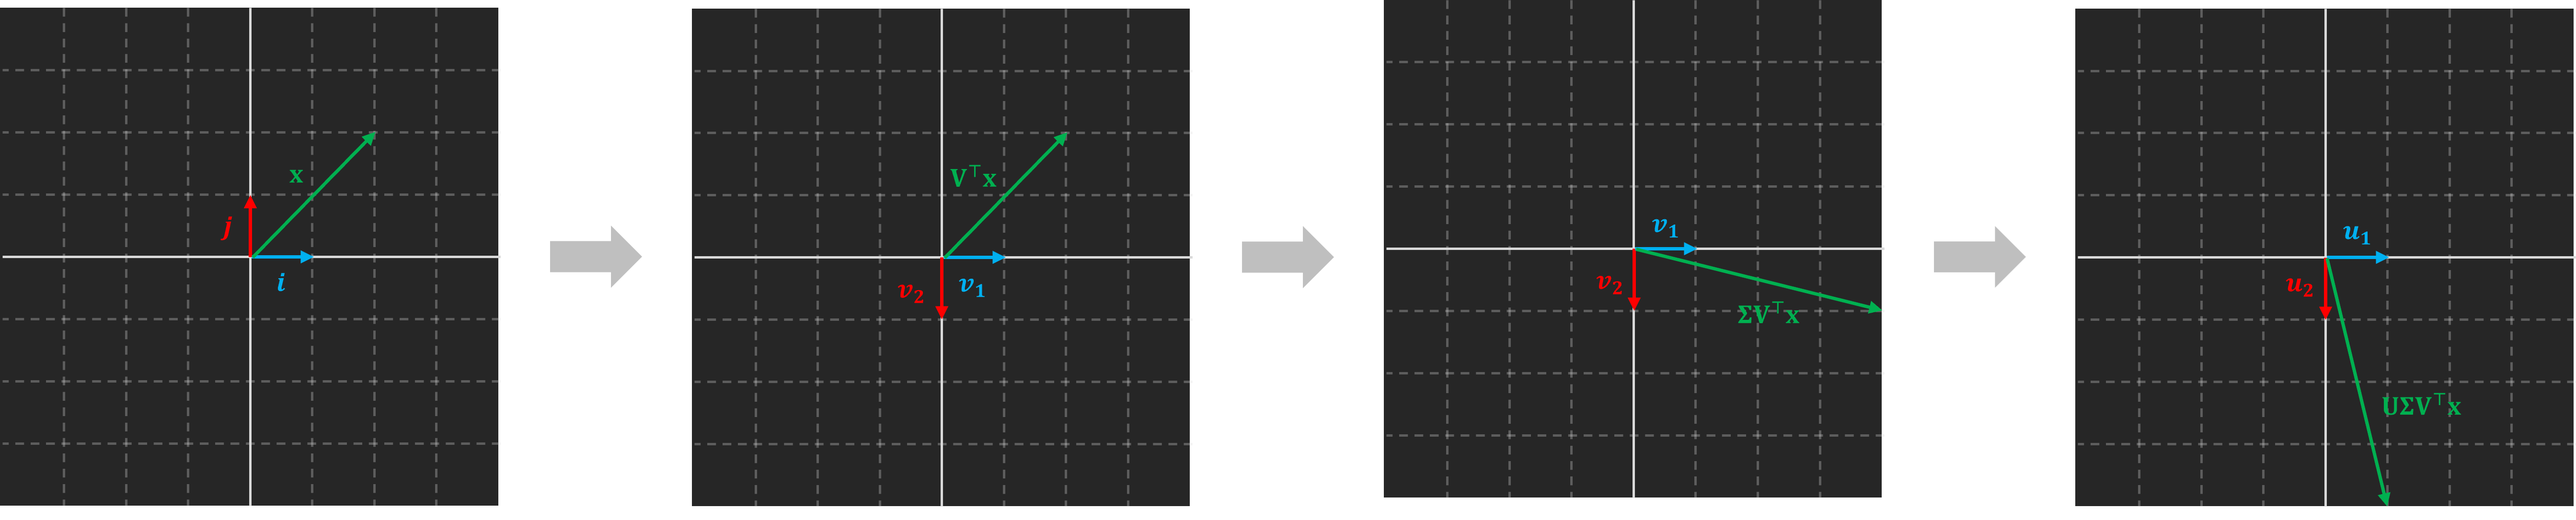
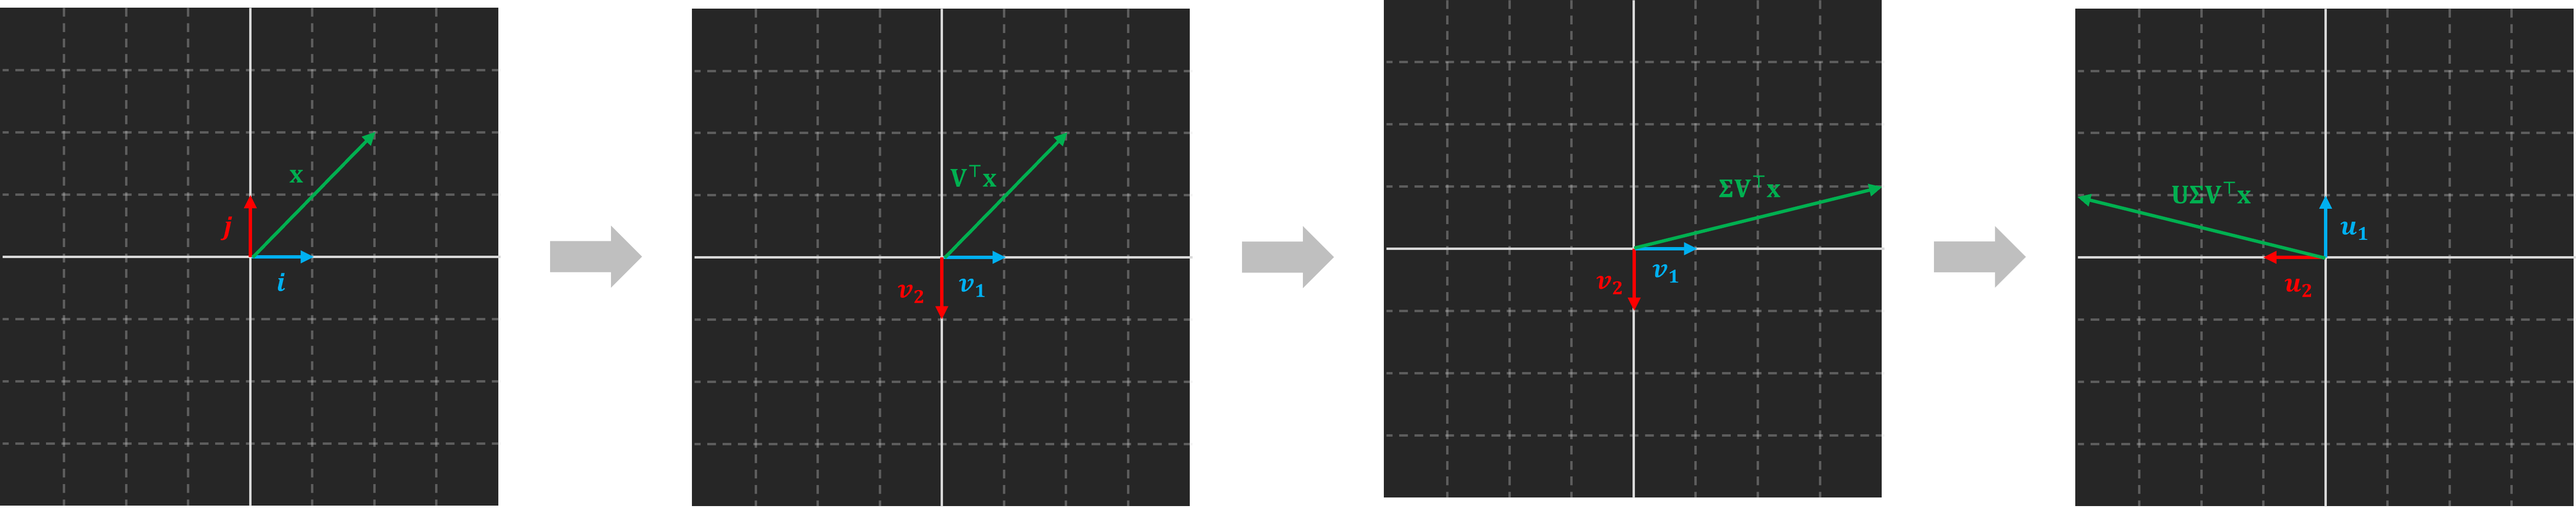
all

diff --git a/_posts/Mathematics/Linear_Algebra/2025-08-02-EVD.md b/_posts/Mathematics/Linear_Algebra/2025-08-02-EVD.md
@@ -23,7 +23,7 @@ $$
 
 ### 닮음 (Similarity)
 
-정사각 행렬 $A, Y$에 대해 어떤 가역 행렬 $B$가 존재해서 다음 식을 만족한다면, $A$와 $Y$는 닮음 관계에 있다고 한다.
+정사각 행렬 $A, Y$에 대해 어떤 가역 행렬 $B$가 존재해서 다음 식을 만족한다면, $A$와 $Y$는 **닮음** 관계에 있다고 한다.
 
 $$
 B^{-1}AB=Y
@@ -41,7 +41,7 @@ $$
    \text{det}(A-\lambda I)=\text{det}(Y-\lambda I)
    $$
 
-닮음 관계는 행렬의 본질적인 성질은 유지하면서, 행렬을 다른 기저에서 표현하는 것을 의미한다.
+닮음 관계는 <span style="background-color:#fff5b1">행렬의 본질적인 성질은 유지하면서, 행렬을 다른 기저에서 표현하는 것</span>을 의미한다.
 
 이 관점에서 보면, 대각화는 닮음 변환의 특수한 경우이다.
 <br>
@@ -87,19 +87,13 @@ $V$가 가역 행렬이라는 뜻은 $A$의 고유벡터들이 모두 선형 독
 <summary><font color='red'>Example 1</font></summary>
 <div markdown="1">
 
-$$
-A=\begin{bmatrix}2&1\\0&2\end{bmatrix}
-$$
-
----
-
-$\lambda_1=\lambda_2=2$이므로, 2개의 중복 고유값을 가진다. → Algebraic Multiplicity = 2
-
-해당 고유값에 대응하는 고유벡터는 1개다. → Gemoetric Multiplicity = 1
-
-Algebraic Multiplicity $\not=$ Gemoetric Multiplicity이므로, $A$는 EVD가 불가능하다.
-
----
+> $$A=\begin{bmatrix}2&1\\0&2\end{bmatrix}$$
+>
+> $\lambda_1=\lambda_2=2$이므로, 2개의 중복 고유값을 가진다. → Algebraic Multiplicity = 2
+>
+> 해당 고유값에 대응하는 고유벡터는 1개다. → Gemoetric Multiplicity = 1
+>
+> Algebraic Multiplicity $\not=$ Gemoetric Multiplicity이므로, $A$는 EVD가 불가능하다.
 
 </div>
 </details>
@@ -118,48 +112,29 @@ $$
 <summary><font color='#0000FF'>증명</font></summary>
 <div markdown="1">
 
-$$\vphantom{\Big(}
-A=V\Lambda V^{-1}~~,~~A^\top=\left(V\Lambda V^{-1}\right)^\top
-$$
-
-대칭 행렬이기 때문에 $A=A^\top$이다.
-
-$$\vphantom{\Big(}
-V\Lambda V^{-1}=\left(V\Lambda V^{-1}\right)^\top
-$$
-
-위 식을 아래와 같이 전개할 수 있다.
-
-$$\vphantom{\Big(}
-V\Lambda V^{-1}=\left(V\Lambda V^{-1}\right)^\top
-=V^{-\top}\Lambda^\top V^\top=\left(V^\top\right)^{-1}\Lambda V^\top
-$$
-
-위 식의 좌변과 우변이 같으려면 아래의 식이 성립해야 한다.
-
-$$\vphantom{\Big(}
-V^{-1}=V^\top
-$$
-
-따라서 $V$는 직교 행렬이다.
-
----
-
-$$\vphantom{\Big(}
-\lambda_1\mathbf{v}_1\cdot\mathbf{v}_2=(\lambda_1\mathbf{v}_1)^\top\mathbf{v}_2=(A\mathbf{v}_1)^\top\mathbf{v}_2=(\mathbf{v}_1^\top A^\top)\mathbf{v}_2
-$$
-
-$$\vphantom{\Big(}
-=\mathbf{v}_1^\top(A\mathbf{v}_2)=\mathbf{v}_1^\top(\lambda_2\mathbf{v}_2)=\lambda_2\mathbf{v}_1^\top\mathbf{v}_2=\lambda_2\mathbf{v}_1\cdot\mathbf{v}_2
-$$
-
-$$\vphantom{\Big(}
-(\lambda_1-\lambda_2)\mathbf{v}_1\cdot\mathbf{v}_2=0
-$$
-
-$\lambda_1\neq\lambda_2$이므로, $\mathbf{v}_1\cdot\mathbf{v}_2=0$이다.
-
----
+> $$\vphantom{\Big(}A=V\Lambda V^{-1}~~,~~A^\top=\left(V\Lambda V^{-1}\right)^\top$$
+>
+> 대칭 행렬이기 때문에 $A=A^\top$이다.
+>
+> $$\vphantom{\Big(}V\Lambda V^{-1}=\left(V\Lambda V^{-1}\right)^\top$$
+>
+> 위 식을 아래와 같이 전개할 수 있다.
+>
+> $$\vphantom{\Big(}V\Lambda V^{-1}=\left(V\Lambda V^{-1}\right)^\top=V^{-\top}\Lambda^\top V^\top=\left(V^\top\right)^{-1}\Lambda V^\top$$
+>
+> 위 식의 좌변과 우변이 같으려면 아래의 식이 성립해야 한다.
+>
+> $$\vphantom{\Big(}V^{-1}=V^\top$$
+>
+> 따라서 $V$는 직교 행렬이다.
+>
+> $$\vphantom{\Big(}\lambda_1\mathbf{v}_1\cdot\mathbf{v}_2=(\lambda_1\mathbf{v}_1)^\top\mathbf{v}_2=(A\mathbf{v}_1)^\top\mathbf{v}_2=(\mathbf{v}_1^\top A^\top)\mathbf{v}_2$$
+>
+> $$\vphantom{\Big(}=\mathbf{v}_1^\top(A\mathbf{v}_2)=\mathbf{v}_1^\top(\lambda_2\mathbf{v}_2)=\lambda_2\mathbf{v}_1^\top\mathbf{v}_2=\lambda_2\mathbf{v}_1\cdot\mathbf{v}_2$$
+>
+> $$\vphantom{\Big(}(\lambda_1-\lambda_2)\mathbf{v}_1\cdot\mathbf{v}_2=0$$
+>
+> $\lambda_1\neq\lambda_2$이므로, $\mathbf{v}_1\cdot\mathbf{v}_2=0$이다.
 
 </div>
 </details>
@@ -191,15 +166,11 @@ EVD는 아래의 연산을 매우 간단하게 만들어 준다. ([대각 행렬
    <summary><font color='#0000FF'>증명</font></summary>
    <div markdown="1">
 
-   $$
-   \text{det}(A)=\text{det}(V\Lambda V^{-1})=\text{det}(V)\text{det}(\Lambda)\text{det}(V^{-1})=\text{det}(\Lambda)\cdot\frac{\text{det}(V)}{\text{det}(V)}=\text{det}(\Lambda)
-   $$
-
-   $\Lambda$는 대각 행렬이며, 대각 행렬의 행렬식은 대각 성분의 곱과 같다.
-
-   $$
-   \text{det}(\Lambda)=\prod_{i=1}^n\lambda_i
-   $$
+   > $$\text{det}(A)=\text{det}(V\Lambda V^{-1})=\text{det}(V)\text{det}(\Lambda)\text{det}(V^{-1})=\text{det}(\Lambda)\cdot\frac{\text{det}(V)}{\text{det}(V)}=\text{det}(\Lambda)$$
+   > 
+   > $\Lambda$는 대각 행렬이며, 대각 행렬의 행렬식은 대각 성분의 곱과 같다.
+   > 
+   > $$\text{det}(\Lambda)=\prod_{i=1}^n\lambda_i$$
 
    </div>
    </details>
@@ -215,10 +186,8 @@ EVD는 아래의 연산을 매우 간단하게 만들어 준다. ([대각 행렬
    <summary><font color='#0000FF'>증명</font></summary>
    <div markdown="1">
 
-   $$
-   \text{tr}(A)=\text{tr}(V\Lambda V^{-1})=\text{tr}(V^{-1}V\Lambda)=\text{tr}(\Lambda)=\sum_{i=1}^n\lambda_i
-   $$
-
+   > $$\text{tr}(A)=\text{tr}(V\Lambda V^{-1})=\text{tr}(V^{-1}V\Lambda)=\text{tr}(\Lambda)=\sum_{i=1}^n\lambda_i$$
+   
    </div>
    </details>
    <br>

diff --git a/_posts/Mathematics/Linear_Algebra/2025-08-03-SVD.md b/_posts/Mathematics/Linear_Algebra/2025-08-03-SVD.md
@@ -50,8 +50,6 @@ $$
 
 이는 오른쪽부터 차례대로 다음의 3단계를 거치는 것과 같다.
 
-![fig1](Mathematics/Linear_Algebra/SVD-1.png){: style="display:block; margin:0 auto; width:100%;"}
-
 1. $V^\top\mathbf{x}$: 기존 좌표계의 벡터 $\mathbf{x}$를 Right Singular Vector들을 기저로 하는 좌표계에서의 좌표로 바꾼다.
 
 2. $\Sigma(V^\top\mathbf{x})$: Right Singular Vector 좌표계에서 각 성분을 표현된 각 성분을 해당 특이값 $\sigma_i$만큼 스케일링한다.
@@ -62,18 +60,18 @@ $$
 
 예를 들어, 유클리드 좌표계에 존재하는 벡터 $\mathbf{x}=2\mathbf{i}+2\mathbf{j}$에 선형 변환 $A$를 적용했다고 해보자.
 <br>
-또한 행렬 $A$는 다음과 같이 EVD가 된다고 가정해 보자.
+또한 행렬 $A$는 다음과 같이 SVD가 된다고 가정해 보자.
 
 $$
 A=U\Sigma V^\top=
-\begin{bmatrix}1&0\\0&-1\end{bmatrix}
+\begin{bmatrix}0&-1\\1&0\end{bmatrix}
 \begin{bmatrix}2&0\\0&0.5\end{bmatrix}
 \begin{bmatrix}1&0\\0&-1\end{bmatrix}^\top
 $$
 
 이때, $A\mathbf{x}$는 다음과 같이 3단계로 적용될 수 있다.
 
-
+![fig1](Mathematics/Linear_Algebra/SVD-1.png){: style="display:block; margin:0 auto; width:100%;"}
 
 1. 벡터 $\mathbf{x}$를 Right Singular Vector 좌표계로 표현
 
@@ -100,8 +98,8 @@ $$
 3. Left Singular Vector 좌표계
 
    $$
-   V(\Sigma V^\top\mathbf{x})
-   =\begin{bmatrix}1&0\\0&-1\end{bmatrix}
+   U(\Sigma V^\top\mathbf{x})
+   =\begin{bmatrix}0&-1\\1&0\end{bmatrix}
    \begin{bmatrix}4\\-1\end{bmatrix}
    =\begin{bmatrix}1\\4\end{bmatrix}
    $$
@@ -114,9 +112,14 @@ $$
 A\begin{bmatrix}2\\2\end{bmatrix}=\begin{bmatrix}1\\4\end{bmatrix}
 $$
 
-## EVD와 SVD의 관계
+## EVD와 SVD의 기하학적 차이
 
 EVD는 행렬 $A$가 어떤 벡터 방향을 자기 자신 방향으로 유지하면서 몇 배로 늘리는지
+
+EVD는 "입력·출력에 같은 하나의 기저를 쓰되, 그 기저가 비스듬해도(비직교) 상관없다"는 분해이고, SVD는 "직교성을 반드시 지키되, 대신 입력 기저와 출력 기저를 서로 다르게 써도 된다"는 분해입니다.
+
+
+## EVD와 SVD의 관계
 
 SVD는 EVD를 일반화한 개념이며, $A^\top A$와 $AA^\top$ 행렬의 EVD를 통해 SVD를 이해할 수 있다.
 
@@ -353,7 +356,7 @@ $$
 
 수학적으로 $A$에 대한 SVD와 동치이지만, 수치적으로는 SVD가 훨씬 더 안정적이다.
 
-**EVD의 불안정성**
+### EVD의 불안정성
 
 EVD에서 $A^\top A$를 형성하는 순간, 조건수가 제곱으로 증폭된다.
 
@@ -363,7 +366,7 @@ $$
 
 만약 원본 행렬 $A$의 조건수가 크다면, $A^\top A$는 훨씬 더 불안정해진다는 뜻이다.
 
-결국 불안정한 행렬 $A^\top A$에 대해 EVD를 수행하면, round-off 오차가 증폭되어 고유값과 고유벡터가 부정확하게 계산될 위험이 크다.
+결국 불안정한 행렬 $A^\top A$에 대해 EVD를 수행하면, Round-off 오차가 증폭되어 고유값과 고유벡터가 부정확하게 계산될 위험이 크다.
 
 > Round-off 오차는 실수를 유한한 비트 수로 근사하여 표현할 때 생기는 오차이다.
 > 
@@ -375,7 +378,7 @@ $$
 >
 > 따라서 반복적인 연산을 거치면 round-off 오차가 매우 커질 수 있다.
 
-**SVD의 안정성**
+### SVD의 안정성
 
 반면, SVD는 원본 행렬 $A$에 대해 바로 SVD를 수행하기 때문에, 조건수 제곱 효과가 발생하지 않아 수치적으로 더 안정적이다.
 
@@ -387,7 +390,7 @@ $$
 
 ### 조건수 (Condition Number)
 
-입력에 생긴 작은 오차가 출력에 얼마나 크게 증폭되는지를 수치적으로 나타내는 민감도 지표이다.
+**조건수**는 입력에 생긴 작은 오차가 출력에 얼마나 크게 증폭되는지를 수치적으로 나타내는 민감도 지표이다.
 
 값이 클수록 불안정 (ill-conditioned)하고, 값이 작을수록 안정 (well-conditioned)하다고 한다.
 
@@ -396,7 +399,9 @@ $$
 =\frac{\sigma_{\max}(A)}{\sigma_{\min}(A)}
 $$
 
-행렬의 조건수가 크다는 것은 해당 행렬의 변환이 한 쪽의 방향은 크게 늘리고 다른 쪽의 방향은 크게 눌렀다는 뜻이다. 이런 경우, 작은 축 방향 (분산이 약한 방향)의 신호들은 값이 작아져 노이즈와 구분이 어려워지고 수치적 안정성이 떨어지게 된다.
+행렬의 조건수가 크다는 것은 해당 행렬의 변환이 한 쪽의 방향은 크게 늘리고 다른 쪽의 방향은 크게 눌렀다는 뜻이다. 
+<br>
+이런 경우, 작은 축 방향 (분산이 약한 방향)의 신호들은 값이 작아져 노이즈와 구분이 어려워지고 수치적 안정성이 떨어지게 된다.
 
-![fig2](Mathematics/Linear_Algebra/SVD-3.png){: style="display:block; margin:0 auto; width:70%;"}
+![fig2](Mathematics/Linear_Algebra/SVD-2.png){: style="display:block; margin:0 auto; width:70%;"}
 _[[출처]](https://math.stackexchange.com/questions/290267/need-help-understanding-matrix-norm-notation)_
